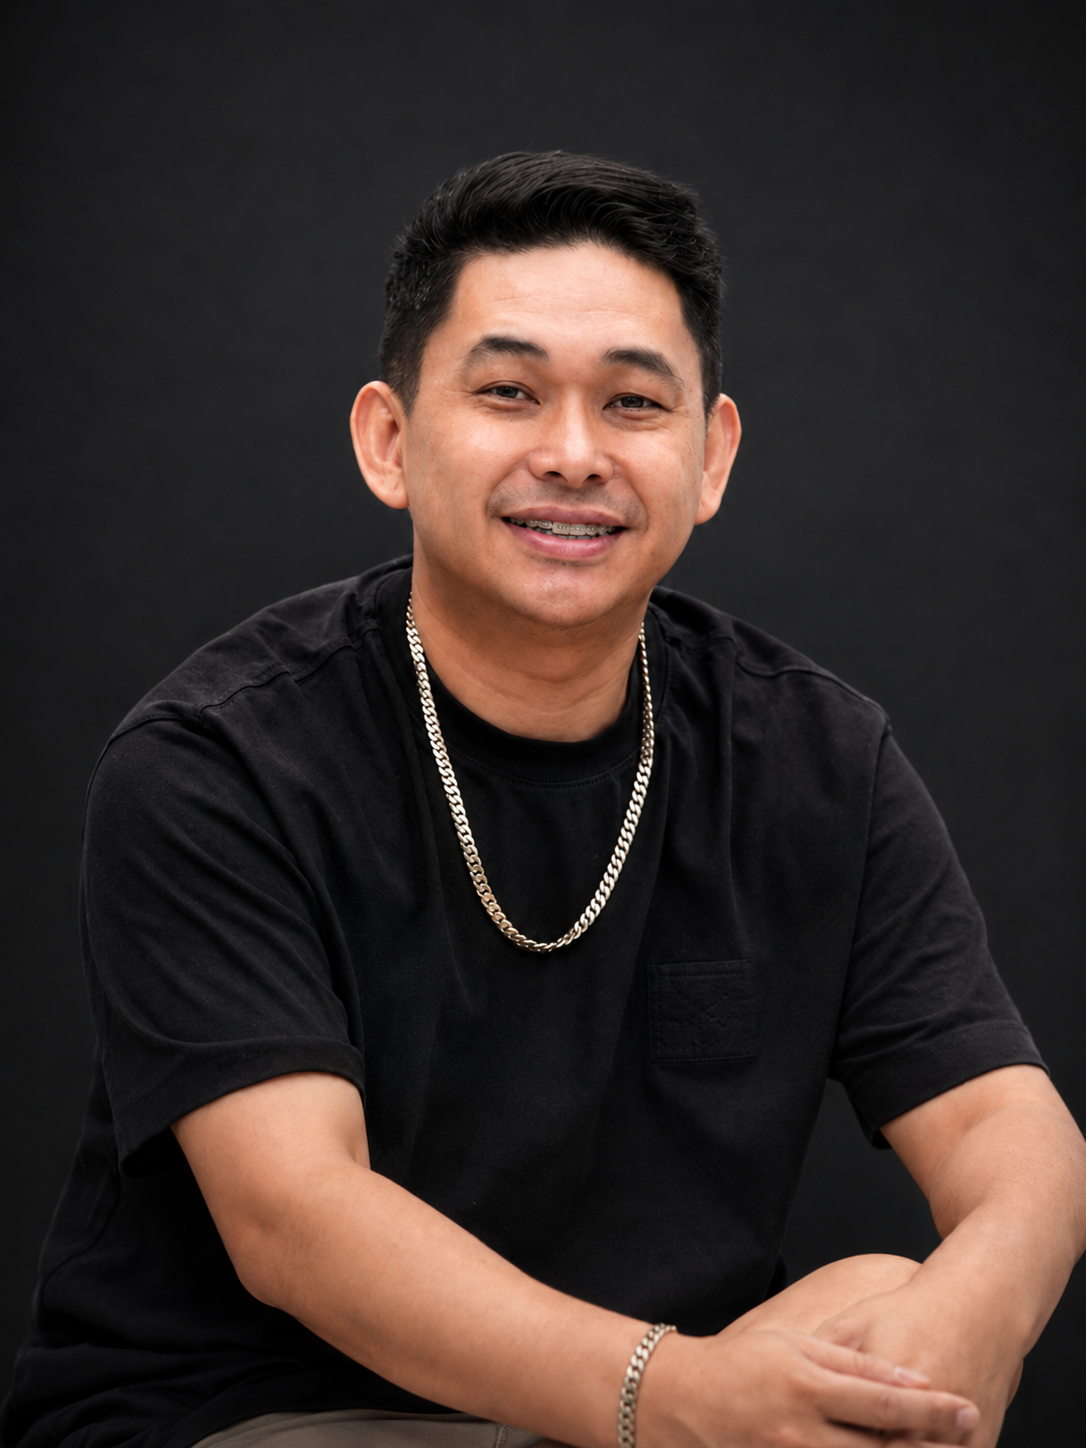
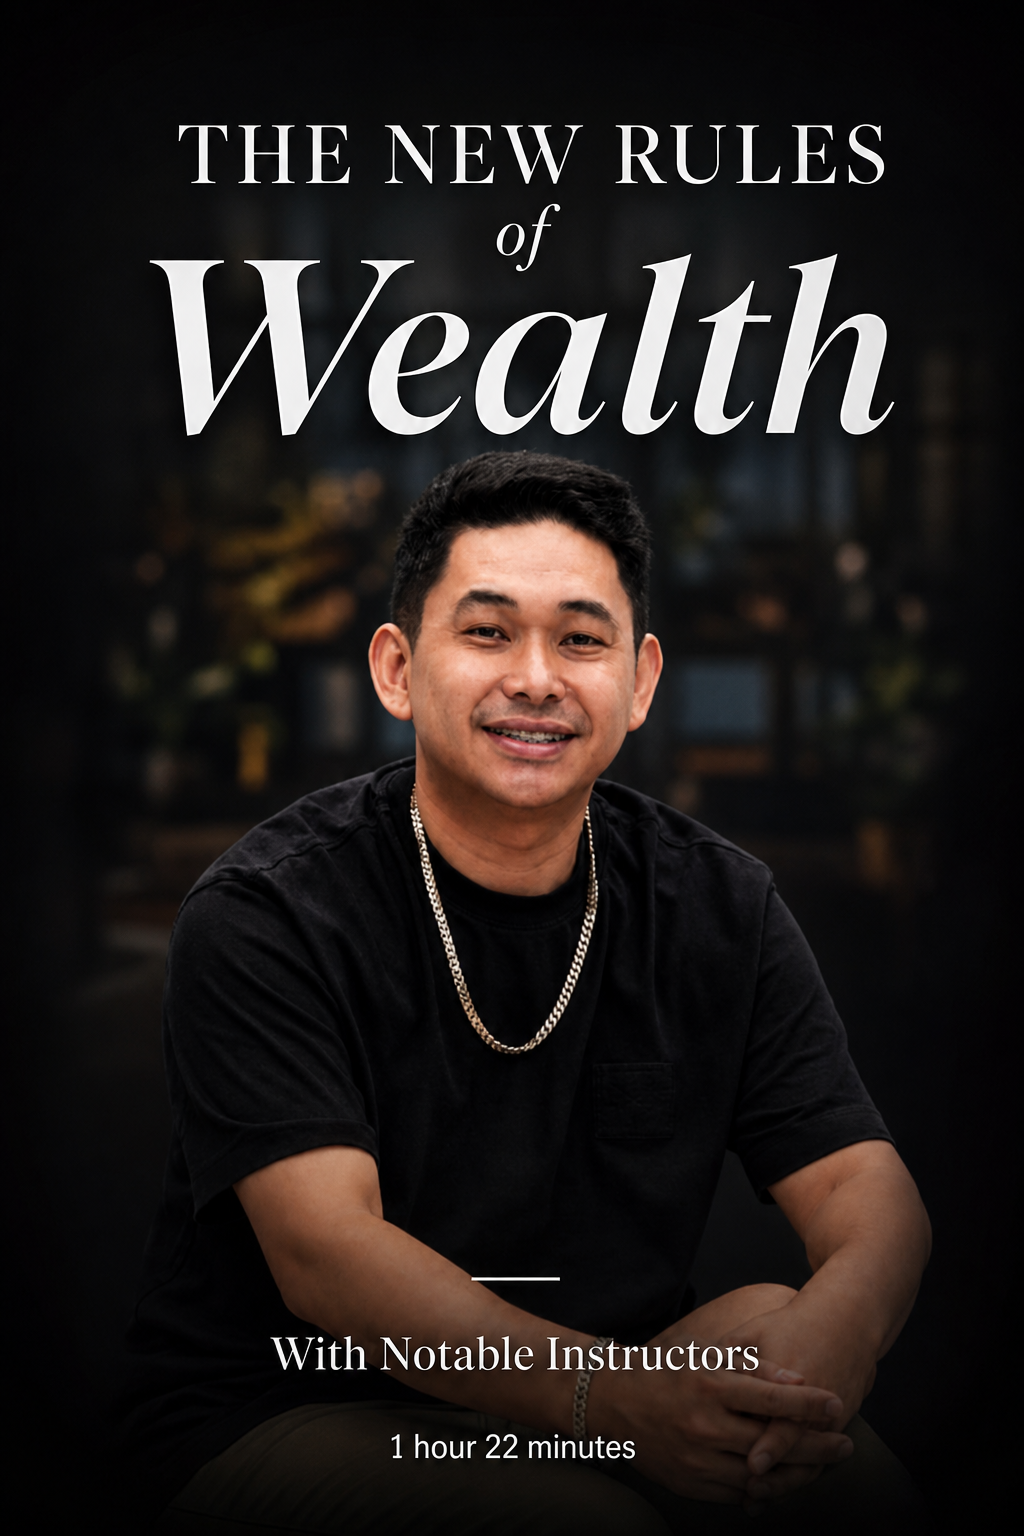
Update academy homepage and assets

diff --git a/src/app/App.tsx b/src/app/App.tsx
@@ -8,8 +8,12 @@ import {
   BookOpen,
 } from "lucide-react";
 import heroImage from "../imports/88b635bb-b31d-4045-b7c9-a340c111b1f9_-_Copy.jpg";
-import ryanHerreraImage from "../imports/791af5e3-5de8-45cf-9c14-ebfd12465d75.jpg";
+import ryanHerreraImage from "../imports/ryan-herrera-updated.png";
 import markHerreraImage from "../imports/ChatGPT_Image_May_26__2026__04_13_44_PM.png";
+import marvinHerreraBannerImage from "../imports/687039088_27210952171835268_4754694957016619653_n.jpg";
+import marvinHerreraImage from "../imports/marvin-herrera-updated.png";
+import arnelPoloImage from "../imports/asda.png";
+import logoImage from "../imports/topsecret-academy-logo.png";
 
 export default function App() {
   const mentors = [
@@ -26,17 +30,15 @@ export default function App() {
       lessons: 15,
     },
     {
-      name: "Robert Novales",
-      title: "Creative Direction",
-      image:
-        "https://images.unsplash.com/photo-1573497019940-1c28c88b4f3e?crop=entropy&cs=tinysrgb&fit=max&fm=jpg&q=80&w=600",
+      name: "Marvin Herrera",
+      title: "The Future of Crypto",
+      image: marvinHerreraImage,
       lessons: 10,
     },
     {
-      name: "Owen Villaver",
+      name: "Arnel Polo",
       title: "Innovation & Technology",
-      image:
-        "https://images.unsplash.com/photo-1506863530036-1efeddceb993?crop=entropy&cs=tinysrgb&fit=max&fm=jpg&q=80&w=600",
+      image: arnelPoloImage,
       lessons: 14,
     },
   ];
@@ -54,9 +56,11 @@ export default function App() {
       <nav className="fixed top-0 left-0 right-0 z-50 bg-black/80 backdrop-blur-md border-b border-white/10">
         <div className="max-w-7xl mx-auto px-6 py-4 flex items-center justify-between">
           <div className="flex items-center gap-12">
-            <h1 className="text-2xl tracking-tight">
-              TOPSECRET ACADEMY
-            </h1>
+            <img
+              src={logoImage}
+              alt="TOPSECRET ACADEMY"
+              className="h-12 w-auto shrink-0 object-contain sm:h-14 md:h-16"
+            />
             <div className="hidden md:flex gap-8">
               <a
                 href="#mentors"
@@ -99,7 +103,7 @@ export default function App() {
         />
 
         <div className="relative z-20 max-w-4xl mx-auto px-6 text-center">
-          <h2 className="text-6xl md:text-7xl mb-6 tracking-tight">
+          <h2 className="font-display text-6xl md:text-7xl mb-6 leading-[0.9] tracking-tight">
             Learn From
             <br />
             The World's Best
@@ -122,6 +126,69 @@ export default function App() {
         </div>
       </section>
 
+      {/* Spotlight Banner */}
+      <section className="bg-black px-6 py-24">
+        <div className="max-w-7xl mx-auto text-center mb-12">
+          <h3 className="font-display text-3xl md:text-4xl text-white">
+            Meet the world's best.
+            <br />
+            New classes added every month.
+          </h3>
+        </div>
+
+        <div className="max-w-6xl mx-auto">
+          <div className="relative overflow-hidden rounded-[28px] bg-black/80 shadow-[0_24px_80px_rgba(0,0,0,0.45)]">
+            <div className="absolute inset-0 bg-gradient-to-r from-black/85 via-black/30 to-transparent z-10" />
+            <ImageWithFallback
+              src={marvinHerreraBannerImage}
+              alt="Marvin Herrera promotional banner"
+              className="h-[560px] w-full object-cover object-[50%_8%]"
+            />
+          </div>
+        </div>
+      </section>
+
+      {/* Benefits Strip */}
+      <section className="bg-black px-6 pb-6">
+        <div className="max-w-7xl mx-auto">
+          <div className="grid gap-10 md:grid-cols-3 pt-8">
+            <div className="flex gap-3">
+              <span className="text-amber-400 mt-1 text-lg leading-none">✓</span>
+              <div>
+                <h4 className="text-xl font-semibold mb-2">
+                  Lessons fit into your day
+                </h4>
+                <p className="text-white/60 leading-relaxed">
+                  Learn at your pace, in any order with new classes added every month.
+                </p>
+              </div>
+            </div>
+            <div className="flex gap-3">
+              <span className="text-amber-400 mt-1 text-lg leading-none">✓</span>
+              <div>
+                <h4 className="text-xl font-semibold mb-2">
+                  Discover new passions
+                </h4>
+                <p className="text-white/60 leading-relaxed">
+                  Get unlimited access to 200+ instructors to help maximize your personal potential.
+                </p>
+              </div>
+            </div>
+            <div className="flex gap-3">
+              <span className="text-amber-400 mt-1 text-lg leading-none">✓</span>
+              <div>
+                <h4 className="text-xl font-semibold mb-2">
+                  Anytime, Anywhere
+                </h4>
+                <p className="text-white/60 leading-relaxed">
+                  Watch or listen to lessons on your computer, TV, phone, or tablet.
+                </p>
+              </div>
+            </div>
+          </div>
+        </div>
+      </section>
+
       {/* Featured Mentors */}
       <section
         id="mentors"
@@ -129,7 +196,7 @@ export default function App() {
       >
         <div className="max-w-7xl mx-auto">
           <div className="text-center mb-16">
-            <h3 className="text-4xl md:text-5xl mb-4">
+            <h3 className="font-display text-4xl md:text-5xl mb-4">
               Featured Mentors
             </h3>
             <p className="text-xl text-white/60">
@@ -144,7 +211,17 @@ export default function App() {
                   <ImageWithFallback
                     src={mentor.image}
                     alt={mentor.name}
-                    className={`w-full h-full object-cover transition-transform duration-500 group-hover:scale-105 ${mentor.name === "Ryan Herrera" ? "object-[50%_30%]" : ""}`}
+                    className={`w-full h-full object-cover transition-transform duration-500 group-hover:scale-105 ${
+                      mentor.name === "Mark Herrera"
+                        ? "object-[50%_18%]"
+                        : mentor.name === "Ryan Herrera"
+                          ? "object-[50%_30%]"
+                        : mentor.name === "Marvin Herrera"
+                          ? "object-[50%_18%]"
+                          : mentor.name === "Arnel Polo"
+                            ? "object-[50%_8%]"
+                            : ""
+                    }`}
                   />
                   <div className="absolute inset-0 bg-gradient-to-t from-black/80 via-black/20 to-transparent opacity-0 group-hover:opacity-100 transition-opacity duration-300" />
                   <div className="absolute bottom-4 left-4 right-4 opacity-0 group-hover:opacity-100 transition-opacity duration-300">

diff --git a/src/styles/fonts.css b/src/styles/fonts.css
@@ -1,0 +1,40 @@
+@import url("https://fonts.googleapis.com/css2?family=Manrope:wght@400;500;600;700;800&family=League+Spartan:wght@600;700;800;900&display=swap");
+
+:root {
+  --font-sans: "Manrope", "Segoe UI", system-ui, -apple-system,
+    BlinkMacSystemFont, "Helvetica Neue", Arial, sans-serif;
+  --font-display: "League Spartan", "Segoe UI", system-ui,
+    -apple-system, BlinkMacSystemFont, "Helvetica Neue", Arial,
+    sans-serif;
+}
+
+html {
+  font-family: var(--font-sans);
+  text-rendering: optimizeLegibility;
+  -webkit-font-smoothing: antialiased;
+  -moz-osx-font-smoothing: grayscale;
+}
+
+body,
+button,
+input,
+textarea,
+select {
+  font-family: var(--font-sans);
+}
+
+h1,
+h2,
+h3,
+h4,
+h5,
+h6 {
+  font-family: var(--font-sans);
+  letter-spacing: -0.03em;
+}
+
+.font-display {
+  font-family: var(--font-display);
+  letter-spacing: -0.06em;
+  text-transform: uppercase;
+}